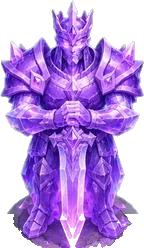
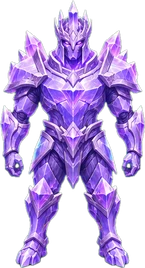
水晶星五個神像換新圖：無底座、企喺浮台上
Claude-Session: https://claude.ai/code/session_01E2utfFQBUZUAHLnSXfgdjb

diff --git a/lib/themes.ts b/lib/themes.ts
@@ -93,11 +93,11 @@ export const CRYSTAL: Theme = {
       observatory: [[94, 98], [130, 154], [179, 268], [242, 360], [300, 474]],
       tower: [[98, 173], [132, 270], [171, 379], [189, 460], [255, 560]],
       palace: [[143, 180], [194, 235], [218, 346], [259, 425], [300, 515]],
-      knight: [[129, 157], [159, 265], [149, 269], [177, 304], [252, 392]],
-      goddess: [[134, 202], [148, 251], [157, 262], [190, 305], [259, 392]],
-      titan: [[133, 195], [157, 259], [144, 248], [180, 301], [300, 406]],
-      dragon: [[114, 138], [138, 208], [142, 258], [172, 329], [300, 477]],
-      lion: [[131, 171], [151, 220], [167, 227], [202, 272], [291, 387]],
+      knight: [[109, 149], [134, 247], [151, 302], [174, 360], [300, 466]],
+      goddess: [[91, 142], [115, 195], [136, 250], [186, 314], [300, 446]],
+      titan: [[99, 149], [124, 211], [145, 268], [167, 331], [300, 442]],
+      dragon: [[81, 100], [106, 146], [136, 210], [183, 296], [300, 424]],
+      lion: [[93, 125], [146, 181], [162, 228], [199, 297], [300, 436]],
     },
   },
 };

diff --git a/public/sw.js b/public/sw.js
@@ -1,5 +1,5 @@
 // 大富翁 service worker: keeps the app shell and art so the board opens without a network.
-const CACHE = "dafuweng-v229";
+const CACHE = "dafuweng-v230";
 const SHELL = [
   "/",
   "/manifest.webmanifest",
